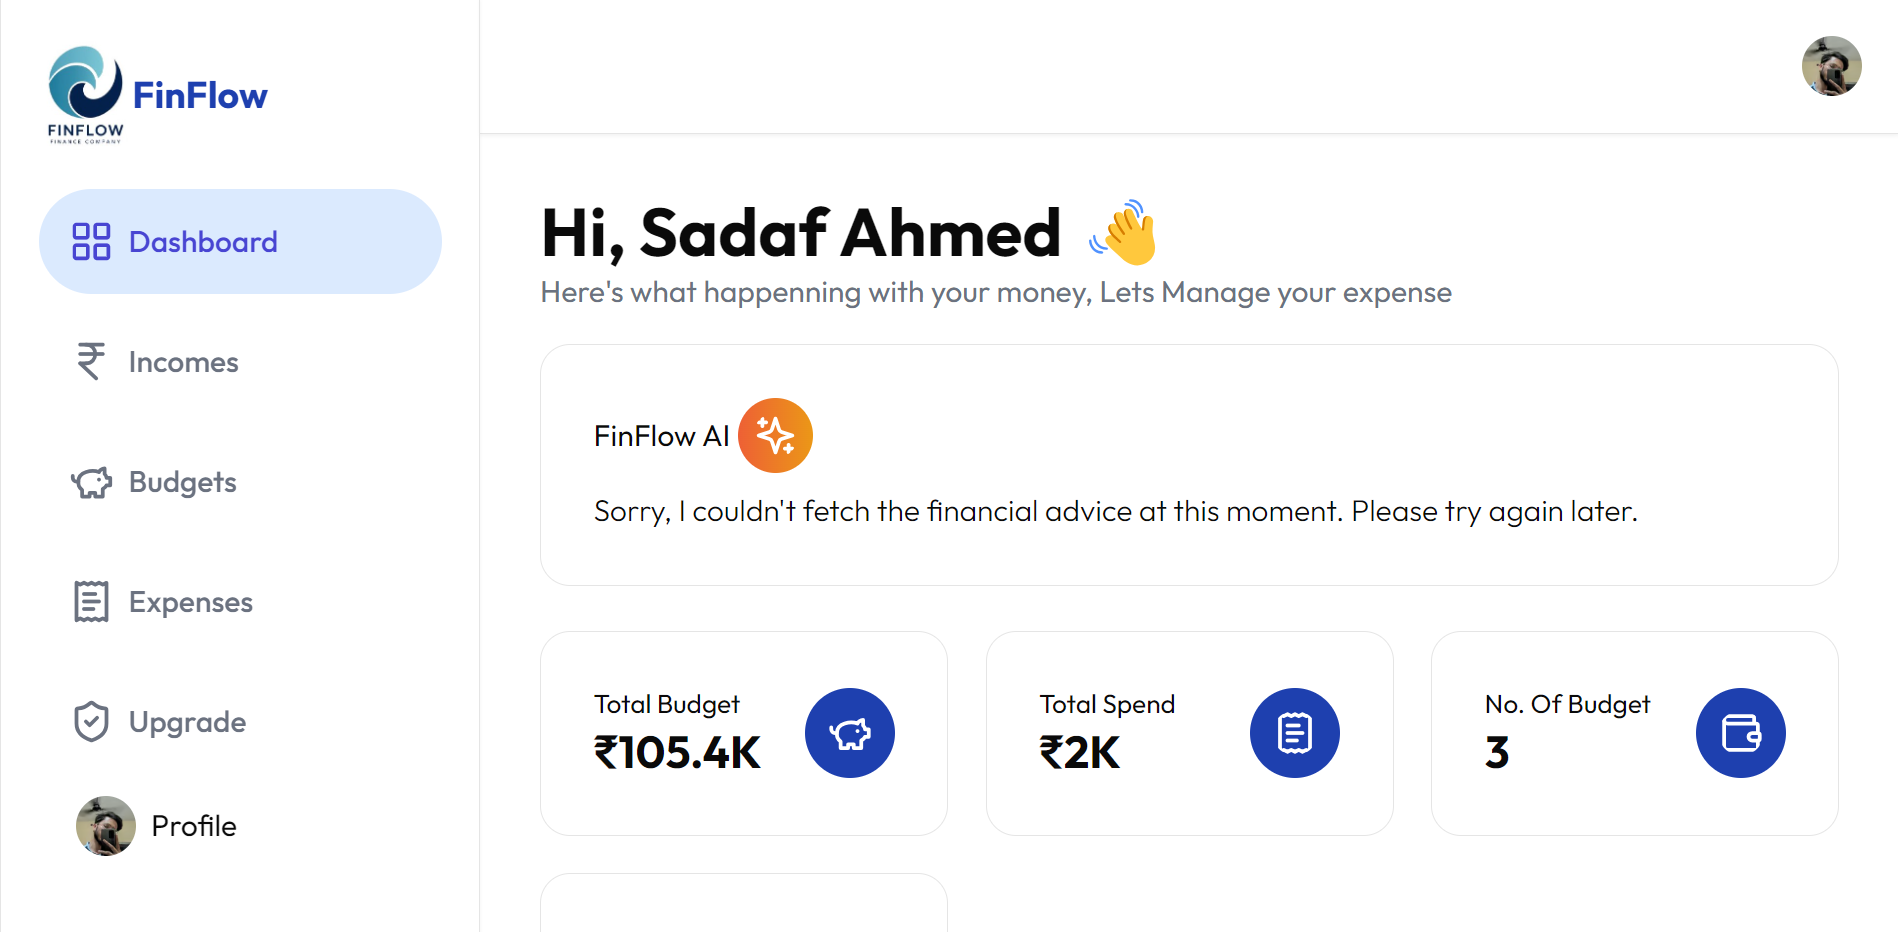
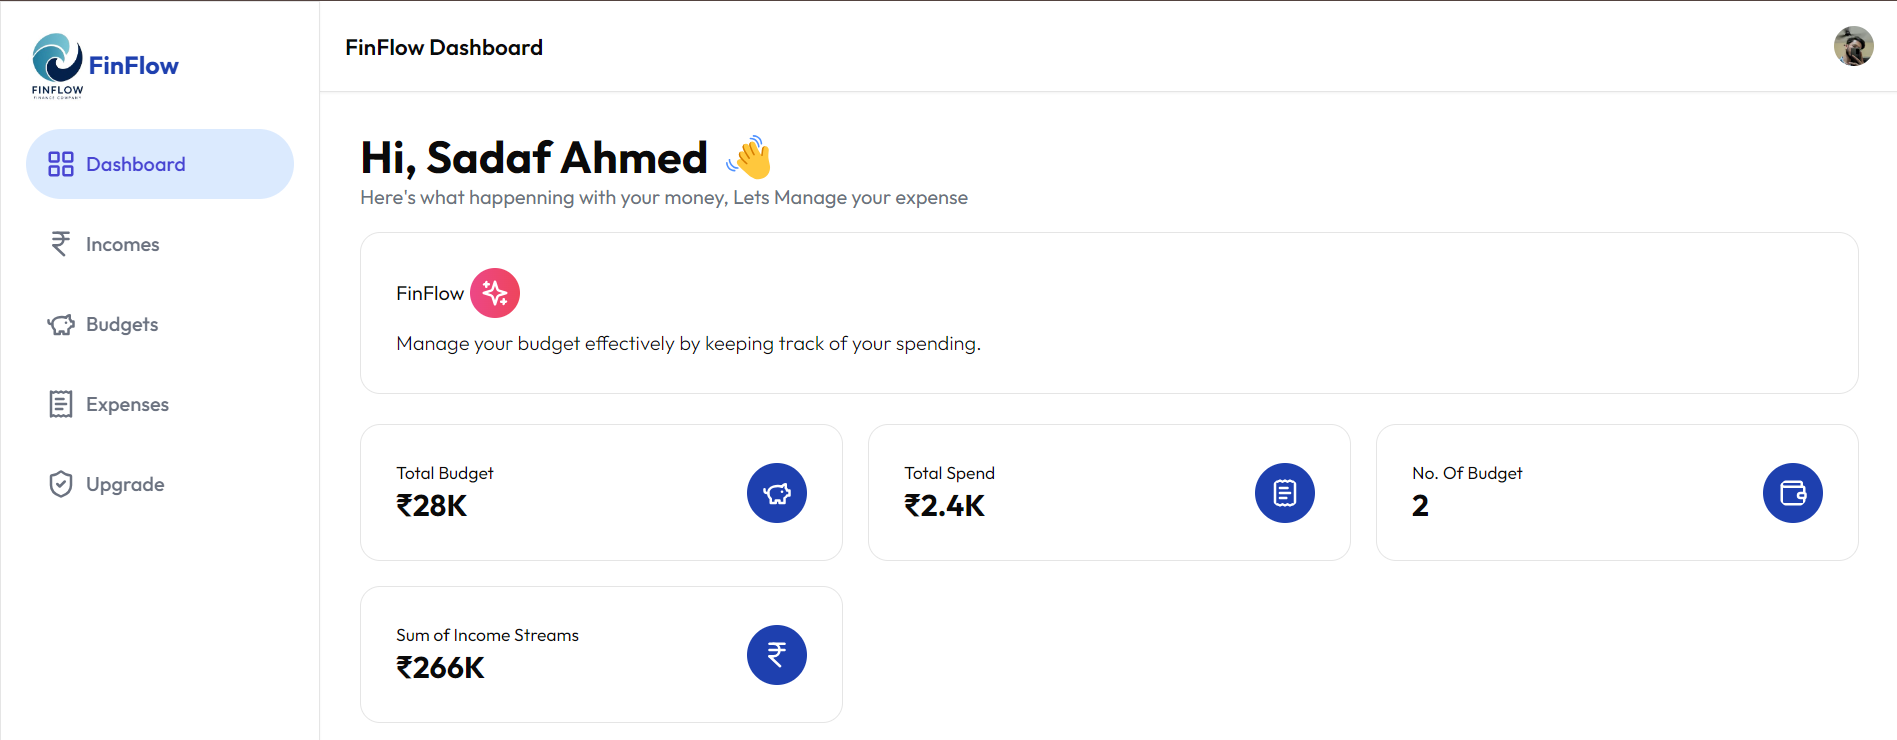
final

diff --git a/src/app/(routes)/dashboard/_components/CardInfo.jsx b/src/app/(routes)/dashboard/_components/CardInfo.jsx
@@ -1,40 +1,23 @@
-import formatNumber from "@/utils";
-import getFinancialAdvice from "@/utils/getFinancialAdvice";
 import {
   PiggyBank,
   ReceiptText,
   Wallet,
-  Sparkles,
   IndianRupee,
+  Sparkles,
 } from "lucide-react";
 import React, { useEffect, useState } from "react";
+import formatNumber from "@/utils";
 
 function CardInfo({ budgetList, incomeList }) {
   const [totalBudget, setTotalBudget] = useState(0);
   const [totalSpend, setTotalSpend] = useState(0);
   const [totalIncome, setTotalIncome] = useState(0);
-  const [financialAdvice, setFinancialAdvice] = useState("");
 
   useEffect(() => {
     if (budgetList.length > 0 || incomeList.length > 0) {
       CalculateCardInfo();
     }
   }, [budgetList, incomeList]);
-
-  useEffect(() => {
-    if (totalBudget > 0 || totalIncome > 0 || totalSpend > 0) {
-      const fetchFinancialAdvice = async () => {
-        const advice = await getFinancialAdvice(
-          totalBudget,
-          totalIncome,
-          totalSpend
-        );
-        setFinancialAdvice(advice);
-      };
-
-      fetchFinancialAdvice();
-    }
-  }, [totalBudget, totalIncome, totalSpend]);
 
   const CalculateCardInfo = () => {
     console.log(budgetList);
@@ -43,12 +26,12 @@ function CardInfo({ budgetList, incomeList }) {
     let totalIncome_ = 0;
 
     budgetList.forEach((element) => {
-      totalBudget_ = totalBudget_ + Number(element.amount);
-      totalSpend_ = totalSpend_ + element.totalSpend;
+      totalBudget_ += Number(element.amount);
+      totalSpend_ += element.totalSpend;
     });
 
     incomeList.forEach((element) => {
-      totalIncome_ = totalIncome_ + element.totalAmount;
+      totalIncome_ += element.totalAmount;
     });
 
     setTotalIncome(totalIncome_);
@@ -62,8 +45,8 @@ function CardInfo({ budgetList, incomeList }) {
         <div>
           <div className="p-7 border mt-4 -mb-1 rounded-2xl flex items-center justify-between">
             <div className="">
-              <div className="flex mb-2 flex-row space-x-1 items-center ">
-                <h2 className="text-md ">FinFlow AI</h2>
+              <div className="flex mb-2 flex-row space-x-1 items-center">
+                <h2 className="text-md ">FinFlow</h2>
                 <Sparkles
                   className="rounded-full text-white w-10 h-10 p-2
     bg-gradient-to-r
@@ -73,8 +56,9 @@ function CardInfo({ budgetList, incomeList }) {
     background-animate"
                 />
               </div>
+              {/* You can replace this with another static message */}
               <h2 className="font-light text-md">
-                {financialAdvice || "Loading financial advice..."}
+                Manage your budget effectively by keeping track of your spending.
               </h2>
             </div>
           </div>
@@ -84,7 +68,7 @@ function CardInfo({ budgetList, incomeList }) {
               <div>
                 <h2 className="text-sm">Total Budget</h2>
                 <h2 className="font-bold text-2xl">
-                ₹{formatNumber(totalBudget)}
+                  ₹{formatNumber(totalBudget)}
                 </h2>
               </div>
               <PiggyBank className="bg-blue-800 p-3 h-12 w-12 rounded-full text-white" />
@@ -93,7 +77,7 @@ function CardInfo({ budgetList, incomeList }) {
               <div>
                 <h2 className="text-sm">Total Spend</h2>
                 <h2 className="font-bold text-2xl">
-                ₹{formatNumber(totalSpend)}
+                  ₹{formatNumber(totalSpend)}
                 </h2>
               </div>
               <ReceiptText className="bg-blue-800 p-3 h-12 w-12 rounded-full text-white" />
@@ -109,7 +93,7 @@ function CardInfo({ budgetList, incomeList }) {
               <div>
                 <h2 className="text-sm">Sum of Income Streams</h2>
                 <h2 className="font-bold text-2xl">
-                ₹{formatNumber(totalIncome)}
+                  ₹{formatNumber(totalIncome)}
                 </h2>
               </div>
               <IndianRupee className="bg-blue-800 p-3 h-12 w-12 rounded-full text-white" />
@@ -118,10 +102,10 @@ function CardInfo({ budgetList, incomeList }) {
         </div>
       ) : (
         <div className="mt-7 grid grid-cols-1 md:grid-cols-2 lg:grid-cols-3 gap-5">
-          {[1, 2, 3].map((item, index) => (
+          {[1, 2, 3].map((item) => (
             <div
               className="h-[110px] w-full bg-slate-200 animate-pulse rounded-lg"
-              key={index}
+              key={`placeholder-${item}`} // Unique key for static placeholder items
             ></div>
           ))}
         </div>

diff --git a/src/app/(routes)/dashboard/_components/DashboardHeader.jsx b/src/app/(routes)/dashboard/_components/DashboardHeader.jsx
@@ -1,18 +1,52 @@
-import { UserButton } from '@clerk/nextjs'
-import React from 'react'
+import React, { useState } from "react";
+import { UserButton } from "@clerk/nextjs";
+import { Menu, X } from "lucide-react";
+import SideNav from "./SideNav";
 
 function DashboardHeader() {
+  const [isDrawerOpen, setIsDrawerOpen] = useState(false);
+
+  const toggleDrawer = () => {
+    setIsDrawerOpen(!isDrawerOpen);
+  };
+
   return (
-    <div className='p-5 shadow-sm border-b flex justify-between'>
-        <div>
-          
+    <div className="p-3 md:p-5 shadow-sm border-b flex justify-between items-center">
+      <div className="flex items-center">
+        <button className="mr-2 sm:hidden" onClick={toggleDrawer}>
+          {isDrawerOpen ? <X className="w-6 h-6" /> : <Menu className="w-6 h-6" />}
+        </button>
+        <span className="hidden sm:inline text-base md:text-lg font-semibold">
+          FinFlow Dashboard
+        </span>
+      </div>
+
+      <div>
+        <UserButton afterSignOutUrl="/" />
+      </div>
+
+      <div
+        className={`fixed inset-0 z-50 flex justify-start transition-transform duration-300 transform ${
+          isDrawerOpen ? "translate-x-0" : "-translate-x-full"
+        }`}
+      >
+        <div
+          className={`fixed inset-0 bg-gray-900 bg-opacity-50 transition-opacity duration-300 ${
+            isDrawerOpen ? "opacity-100" : "opacity-0 pointer-events-none"
+          }`}
+          onClick={toggleDrawer}
+        ></div>
+
+        <div
+          className={`w-64 bg-white h-full shadow-lg transform transition-transform duration-300 ${
+            isDrawerOpen ? "translate-x-0" : "-translate-x-full"
+          }`}
+        >
+          <SideNav closeDrawer={toggleDrawer} /> {/* Pass the toggleDrawer function */}
         </div>
-        <div>
-            <UserButton afterSignOutUrl='/'/>
-        </div>
-       
+      </div>
     </div>
-  )
+  );
 }
 
-export default DashboardHeader
+export default DashboardHeader;
